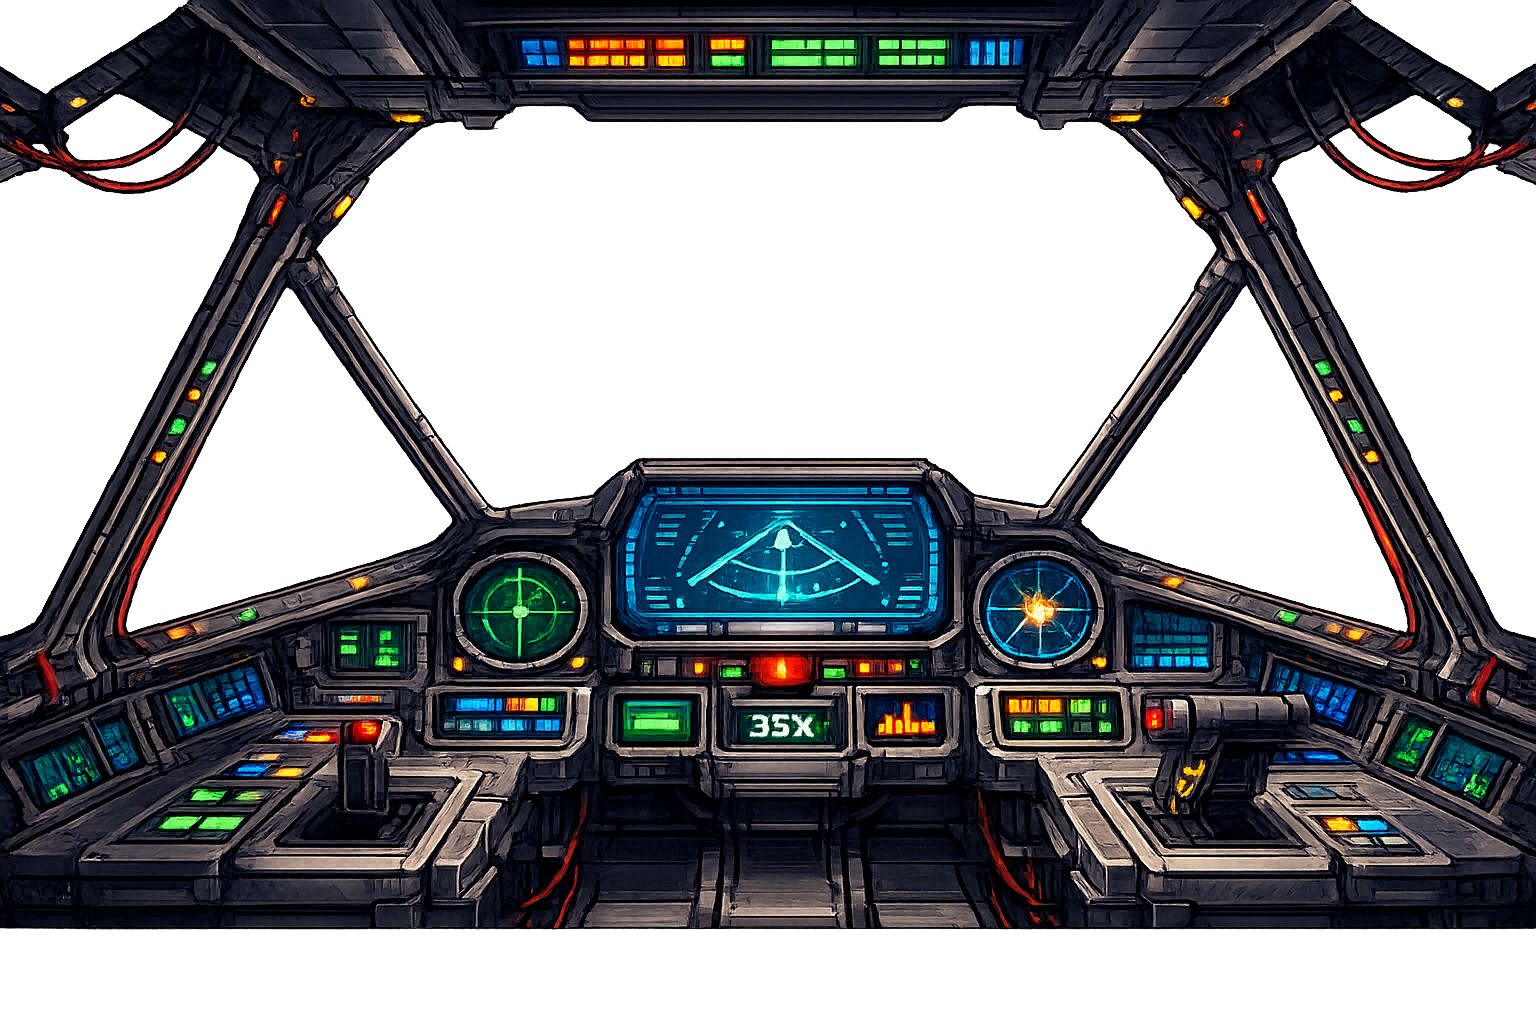
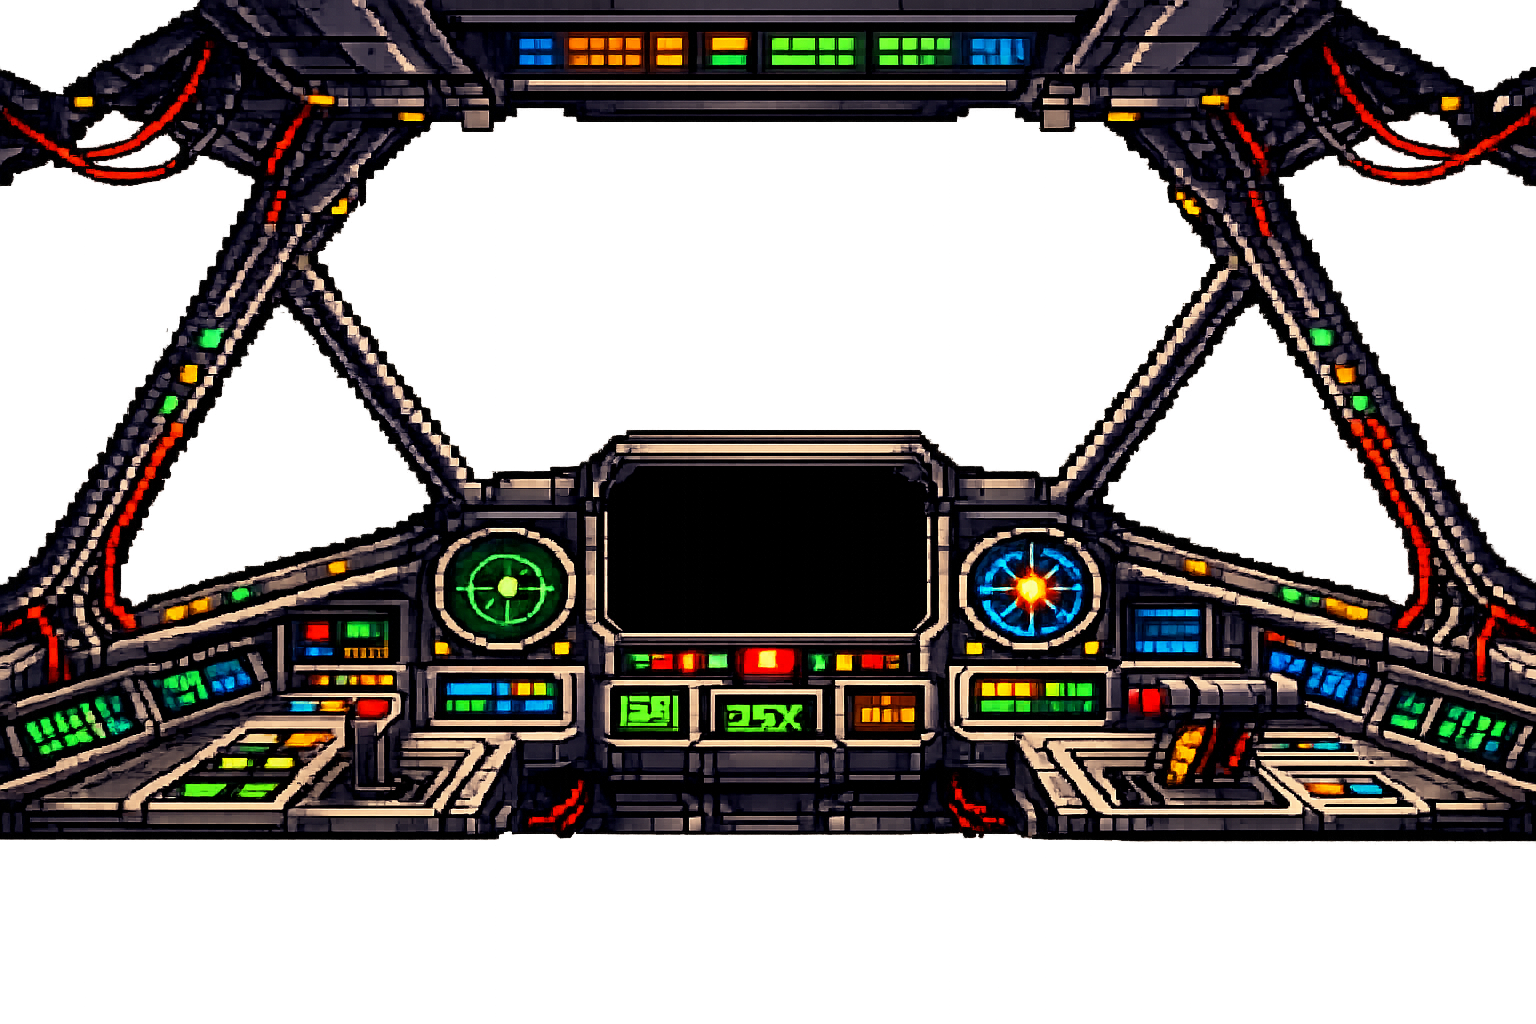
feat(bridge): new cockpit image + flashing "CLICK TO NAVIGATE" text
Swapped to cleaner cockpit PNG with dark center screen area.
Removed border from star map hotspot. Added bright flashing
"CLICK TO NAVIGATE" text with cyan glow and 1.2s pulse animation.

diff --git a/apps/bridge/css/bridge.css b/apps/bridge/css/bridge.css
@@ -202,38 +202,33 @@ body::after {
   box-shadow: 0 0 15px rgba(160, 120, 220, 0.08);
 }
 
-/* ---- Star Map nav button (prominent) ---- */
+/* ---- Star Map nav button ---- */
 .cockpit-nav {
-  border: 1px solid rgba(56, 152, 240, 0.25);
-  border-radius: 6px;
-  animation: nav-pulse 2.5s ease-in-out infinite;
+  border: none;
   display: flex;
   align-items: center;
   justify-content: center;
+  cursor: pointer;
 }
 
 .cockpit-nav:hover {
-  border-color: rgba(56, 152, 240, 0.5);
-  box-shadow: 0 0 20px rgba(56, 152, 240, 0.15);
-  background: rgba(56, 152, 240, 0.05);
+  border: none;
+  box-shadow: none;
+  background: rgba(56, 152, 240, 0.06);
 }
 
 .cockpit-nav-label {
-  font-size: clamp(10px, 1.4vw, 16px);
-  letter-spacing: 3px;
-  color: rgba(56, 152, 240, 0.7);
-  text-shadow: 0 0 10px rgba(56, 152, 240, 0.3);
+  font-size: clamp(11px, 1.6vw, 18px);
+  letter-spacing: 4px;
+  color: rgba(56, 200, 255, 0.95);
+  text-shadow: 0 0 12px rgba(56, 200, 255, 0.6), 0 0 24px rgba(56, 200, 255, 0.3);
   pointer-events: none;
-  transition: color 0.2s;
+  animation: nav-flash 1.2s ease-in-out infinite;
 }
 
-.cockpit-nav:hover .cockpit-nav-label {
-  color: rgba(56, 152, 240, 0.95);
-}
-
-@keyframes nav-pulse {
-  0%, 100% { border-color: rgba(56, 152, 240, 0.15); box-shadow: 0 0 8px rgba(56, 152, 240, 0.04); }
-  50% { border-color: rgba(56, 152, 240, 0.35); box-shadow: 0 0 16px rgba(56, 152, 240, 0.1); }
+@keyframes nav-flash {
+  0%, 100% { opacity: 0.4; }
+  50% { opacity: 1; }
 }
 
 .cockpit-hotspot.offline {

diff --git a/apps/bridge/js/cockpit.js b/apps/bridge/js/cockpit.js
@@ -64,7 +64,7 @@ var BridgeCockpit = (function () {
     overlay.innerHTML =
       // Center screen hotspot (star map) — prominent, clickable
       '<div class="cockpit-hotspot cockpit-nav" id="hotspot-center" style="' + rectStyle(LAYOUT.center) + '">' +
-        '<div class="cockpit-nav-label">▸ OPEN STAR MAP</div>' +
+        '<div class="cockpit-nav-label">CLICK TO NAVIGATE</div>' +
       '</div>' +
       // Left panel (offline)
       '<div class="cockpit-hotspot offline" style="' + rectStyle(LAYOUT.left) + '">' +
